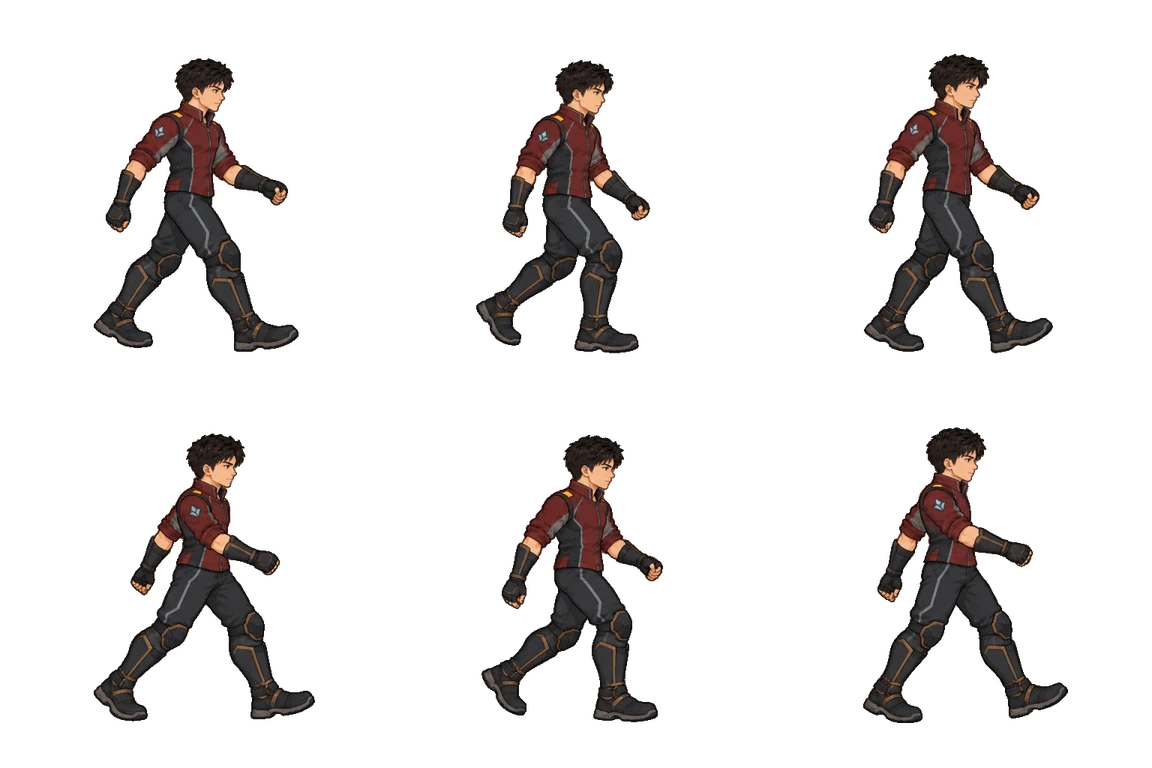
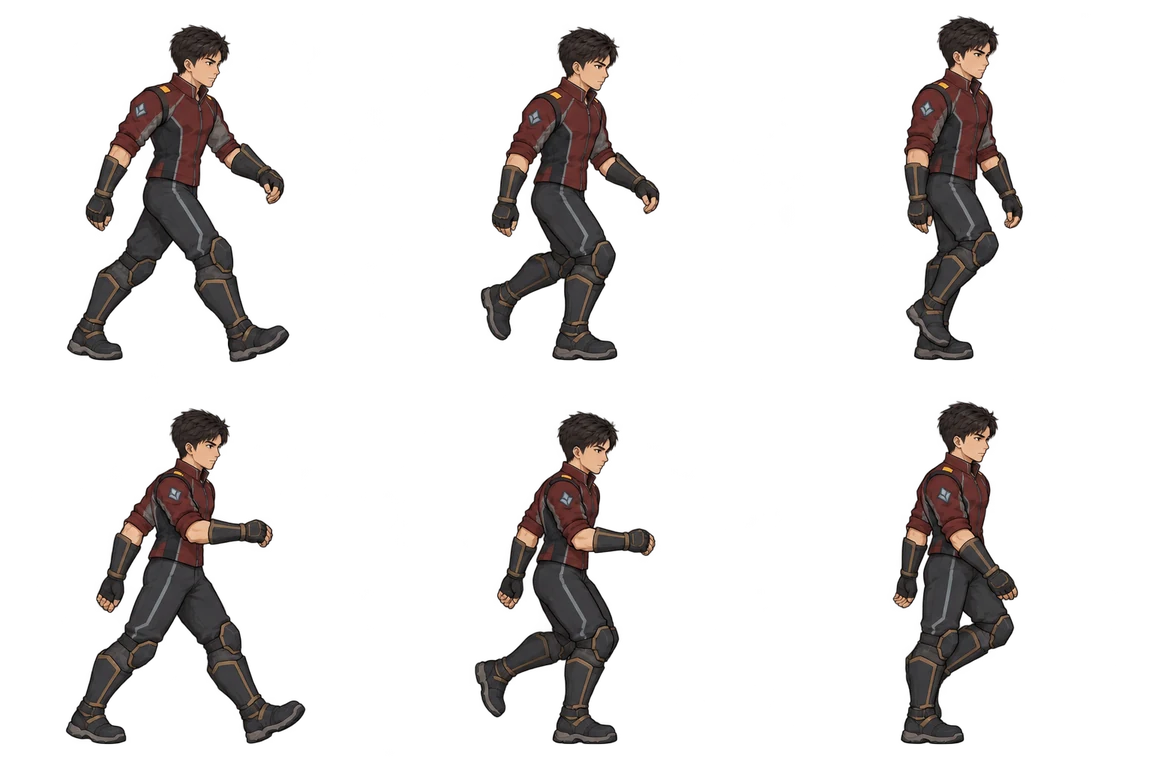
Import Wind's and Fire's v2 walks (full two-step cycles)
Fire's v2 is drawn ~10% larger than idle: draw scale 0.9. River's v2
still repeats half a cycle and is not imported.

Claude-Session: https://claude.ai/code/session_0139SQ3kwzAxvua5LhRqdRac

diff --git a/tools/art/import_art.py b/tools/art/import_art.py
@@ -43,6 +43,8 @@ APPROVED = {
     "ENM-LOOKOUT-REACT": "ENM-LOOKOUT-REACT_v2.png",
     # Full two-step walk cycles (v1 repeated half a cycle, so the limbs never swapped).
     "HERO-MTN-WALK": "HERO-MTN-WALK_v2.png",
+    "HERO-WND-WALK": "HERO-WND-WALK_v2.png",
+    "HERO-FIR-WALK": "HERO-FIR-WALK_v2.png",
 }
 
 HEROES = {
@@ -237,6 +239,7 @@ SHEET_SCALE = {
     "mountain-dash": 0.92,
     "mountain-team-attack": 0.95,
     "mountain-walk": 0.95,
+    "fire-walk": 0.9,
     "river-walk": 0.88,
     "river-handwheel": 0.95,
 }

diff --git a/Guo_tests.md b/Guo_tests.md
@@ -1009,4 +1009,5 @@ If Vite prints another port than 5173, use that one. Stop the server with `Ctrl+
 5. **Unarmed walk:** drop the weapon and walk: the walk sheet plays as before (the arms and legs still don't swap until the redrawn walk sheets arrive).
 6. **Other poses:** without a weapon, guard (**G**), dash (**D D**), grab the dummy (**J**) and get hit: Mountain keeps one size in every pose.
 7. **River:** press **Num 4** so Player 2 (River) joins. Walk River with the arrow keys: River is the same size walking and standing (before, the walk was visibly larger). River picks up the staff and the handwheel with **Num 3**: same size.
-8. **Mountain's new walk (v2 sheet):** without a weapon, walk Mountain left and right. His arms and legs now swap every step (left arm forward with the right leg, then the other way round), and he is the same size walking and standing. The other three heroes still use the old walk until their v2 sheets arrive.
+8. **Mountain's new walk (v2 sheet):** without a weapon, walk Mountain left and right. His arms and legs now swap every step (left arm forward with the right leg, then the other way round), and he is the same size walking and standing.
+9. **Wind and Fire walk (v2 sheets):** in the Lab press **F2**, set *Player 1 hero* to **wind**, close F2 and walk: arms and legs swap every step. Repeat with **fire**; both are the same size walking and standing. River still uses the old walk until her redrawn sheet arrives.
